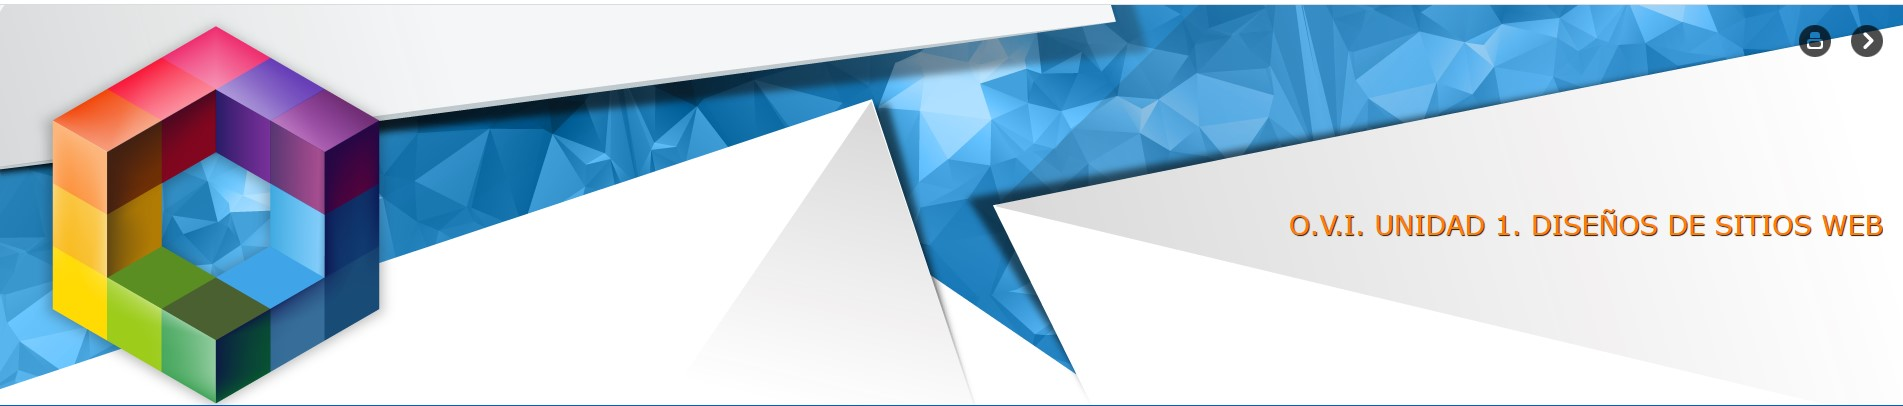
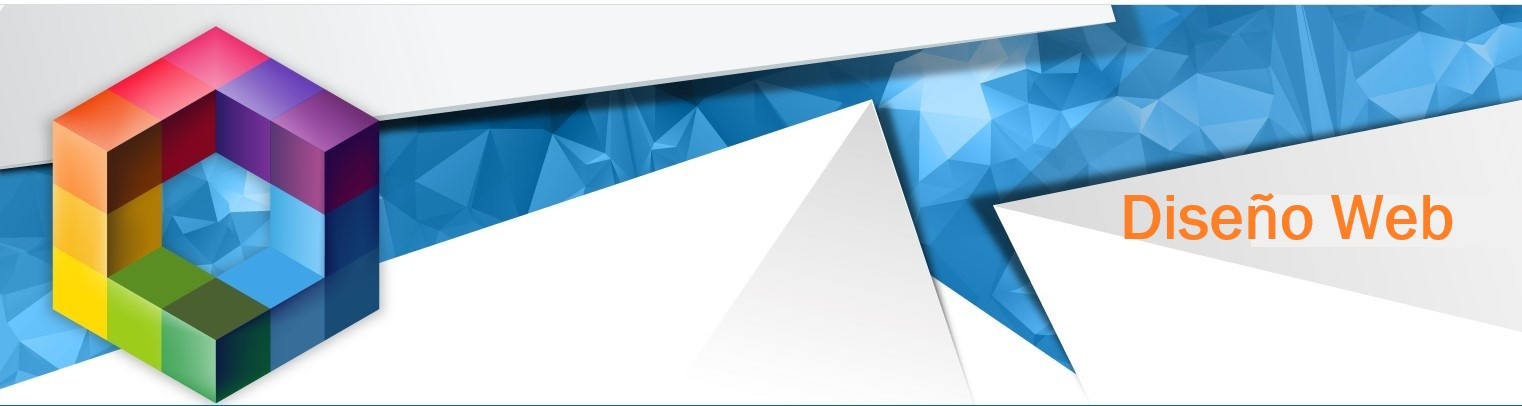
creación pagina autor

diff --git a/conceptos.html b/conceptos.html
@@ -8,17 +8,19 @@
 </head>
     <body>
         <header>
-        <div class="titulo"> 
-                <h1 > Conceptos HTML 5 </h1> 
-           </div>
+            <div class="fond"> 
+                <a href="#"><img src="img/Imagen.jpg"/> </a>
+            </div>
         <div id="menu">
-                
             <a href="inicio.html">Inicio</a>
             <a href="conceptos.html">Conceptos</a>
             <a href="recursos.html">Recursos</a>
             <a href="autoevaluacion.html">Autoevaluación</a>
             <a href="autor.html">Autor</a>
         </div>
+        <div class="titulo"> 
+            <h1 > Conceptos GitHub y HTML5 </h1> 
+       </div>
         <section>
             <h1>GitHub es lo primero</h1>
             <p>Lo primero que debes saber , es utilizar la herramienta Github. Dirás... ¿que tiene que ver GitHub en esto?
@@ -31,7 +33,7 @@
         ya teniendo esto, podemos iniciar a crear nuestra primera página web con el nombre index.html</p>
         </section>
         <section>
-          <h1>Fundamentos HTML5</h1>
+          <h1>Mi Primer Página HTML5</h1>
             <p>Lenguaje de marcado hipertexto (HTML), no lo confundas con lenguaje de programación, la diferencia es que un lenguaje de marcado 
                 define reglas para codificar documentos en formato legible para ti y la maquina, mientras que el de programación, 
             requiere de comandos y sintaxis que pueden escribir programas de computadoras que son entendidos por la computadora. </p>
@@ -50,6 +52,11 @@
             <div class="image">
                 <img src="img/seccion.jpg"/>
             </div>
+        </section>
+        <section >
+            <h1>CSS Para Que Se Vea Linda</h1>
+            <p>CSS le dará el estilo que deseas a tu página</p>
+            <a href="conceptos2.html"><button id="butt">Contenido CSS</button></a>
         </section>
         </header>
     </body>

diff --git a/autor.html b/autor.html
@@ -4,19 +4,34 @@
     <meta charset="UTF-8">
     <meta name="viewport" content="width=device-width, initial-scale=1.0">
     <title>Document</title>
-    <link rel="stylesheet" href="estilos.css">
+    <link rel="stylesheet" href="css/main.css">
 </head>
 <body>
-    <h1 class="titulo">CONTENIDO HTML5 Y CSS3 </h1> 
-
-    <nav>
-        <ul class="menu">
-           <a href="inicio.html">Inicio</a>
-           <a href="conceptos.html">Conceptos</a>
-           <a href="recursos.html">Recursos</a>
-           <a href="autoevaluacion.html">Autoevaluación</a>
-           <a href="autor.html">Autor</a>
-        </ul>
-    </nav>
+    <header>
+        <div class="fond"> 
+            <a href="#"><img src="img/Imagen.jpg"/> </a>
+        </div>
+        <div class="titulo"> 
+            <h1 >Autor</h1> 
+       </div>
+        <div id="menu">
+            <a href="inicio.html">Inicio</a>
+            <a href="conceptos.html">Conceptos</a>
+            <a href="recursos.html">Recursos</a>
+            <a href="autoevaluacion.html">Autoevaluación</a>
+            <a href="autor.html">Autor</a>
+        </div>
+        <div class="aut">
+        <a href="#"></a><img style="width: 120px;height:150px ;" src="img/JM.png"></a>
+        </div>
+        <div class="datos">
+            <h2>Jenny Johanna Marin Niño</h2>
+            <h3>Escuela de Ciencias Básicas, Tecnología e Ingeniería ECBTI</h3>
+            <h4>Ingeniería de sistemas</h4>
+            <h2>Contacto</h2>
+                <li>Correo:jejoma28@gmail.com</li>
+                <li>Skype:jejomani</li>
+        </div>
+    </header>
 </body>
 </html>

diff --git a/conceptos2.html b/conceptos2.html
@@ -1,0 +1,28 @@
+<html lang="en">
+<head>
+    <meta charset="UTF-8">
+    <meta name="viewport" content="width=device-width, initial-scale=1.0">
+    <title>Document</title>
+    <link rel="stylesheet" href="css/main.css">
+</head>
+    <body>
+        <header>
+            <div class="fond"> 
+                <a href="#"><img src="img/Imagen.jpg"/> </a>
+            </div>
+        <div id="menu">
+            <a href="inicio.html">Inicio</a>
+            <a href="conceptos.html">Conceptos</a>
+            <a href="recursos.html">Recursos</a>
+            <a href="autoevaluacion.html">Autoevaluación</a>
+            <a href="autor.html">Autor</a>
+        </div>
+        <div class="titulo"> 
+            <h1 > Conceptos CSS </h1> 
+        </div>
+        <section>
+
+        </section>
+        </header>
+    </body>
+</html>

diff --git a/css/main.css b/css/main.css
@@ -55,3 +55,22 @@ section{
 .image{
     margin: 30px auto;
 }
+header #butt{
+    background-color: cornflowerblue;
+    color: white;
+    border-radius: 30px;
+    text-shadow: 0 4px 4px rgba(0, 0, 0, 0.2);
+    font-size: 20px;
+}
+.fond{
+    text-align: center;
+}
+.aut{
+ text-align: left;
+ margin-left: 50px;
+ padding: 30px;
+}
+.datos{
+    margin-left:20px;
+    margin-right:200px ;
+}
